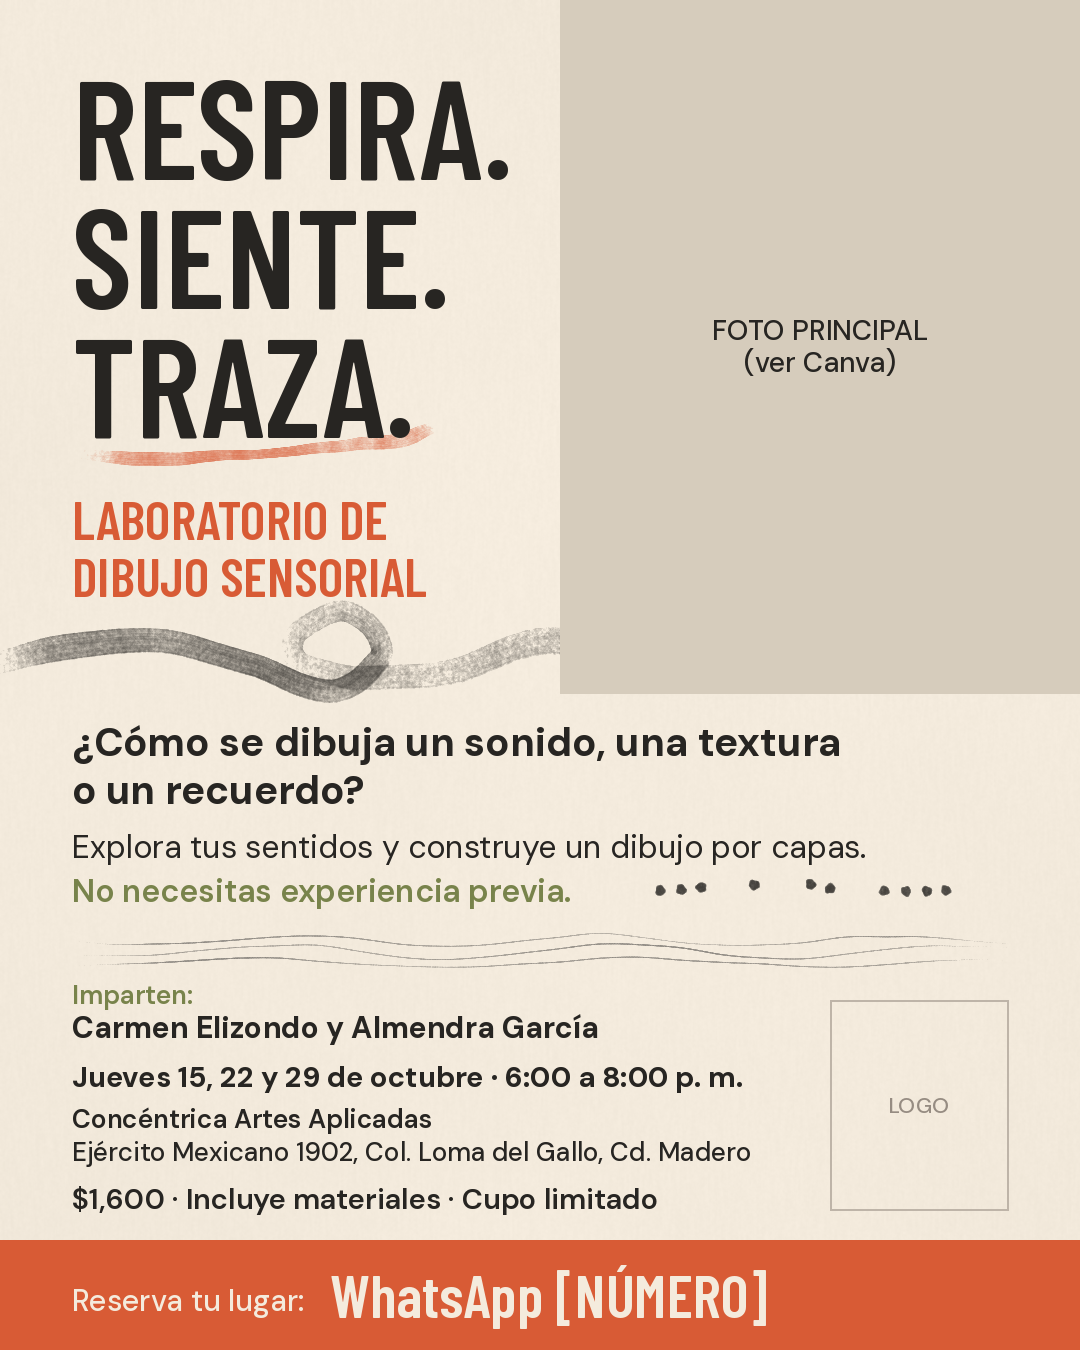
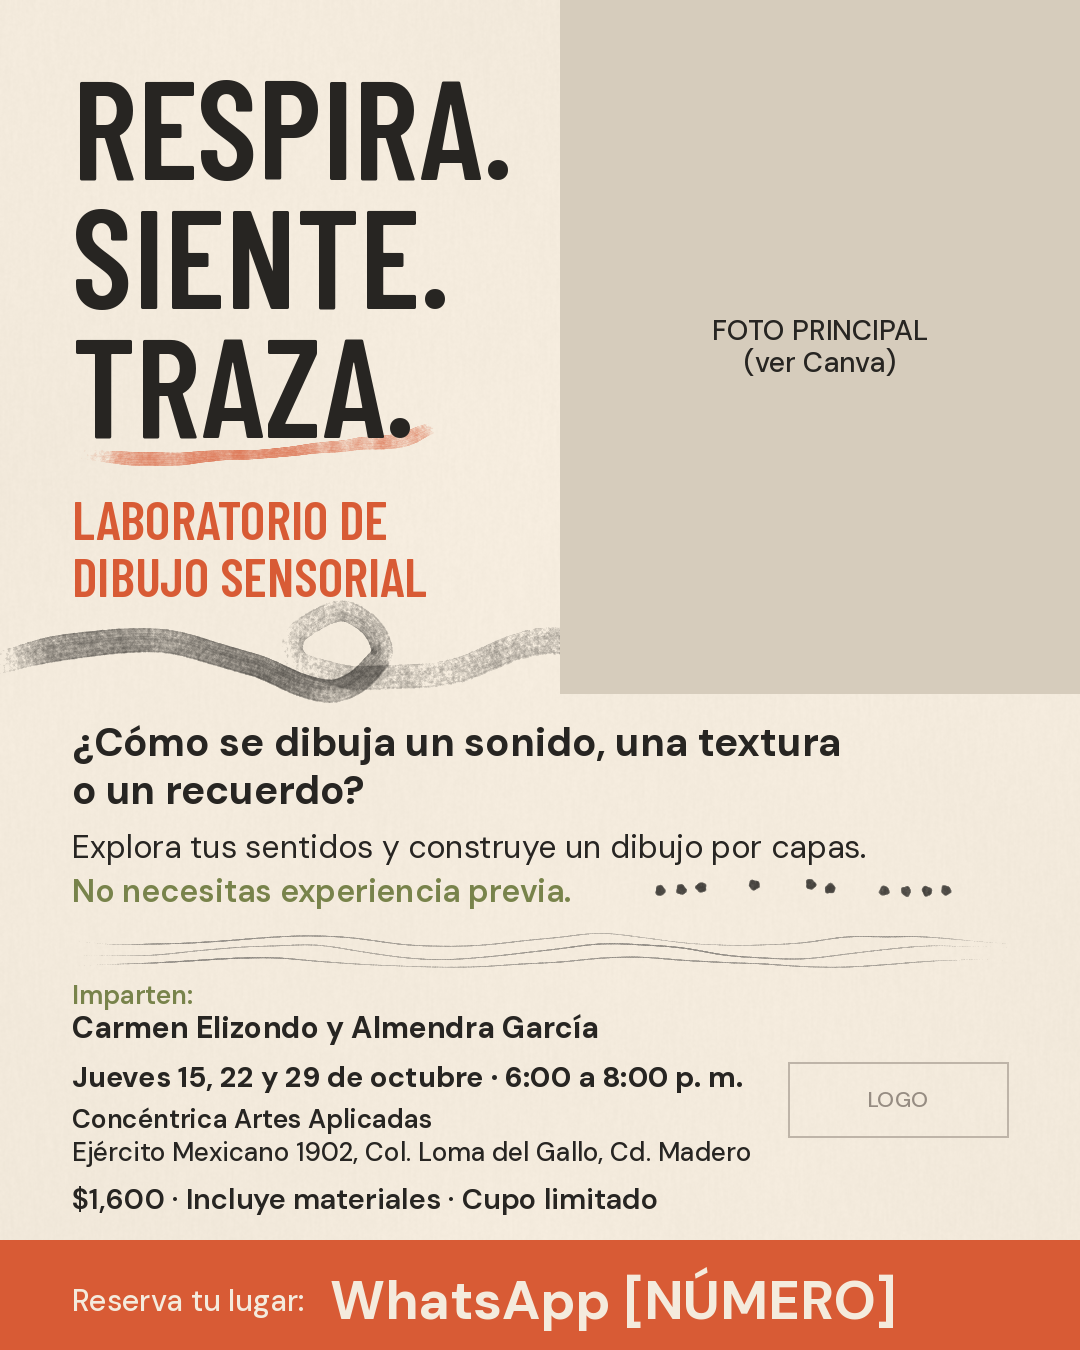
Finish sensory drawing lab flyer: Canva version, README and pending items
The editable flyer lives in Canva (design DAHXYHwz8Oc) with the client's
Concéntrica logo, the paper and stroke layers from this repo and a generated
photo labelled as illustrative. The local mock-up now matches the Canva
layout; the README records data sources and what is still missing
(WhatsApp number, city and price confirmation, real photos).

Claude-Session: https://claude.ai/code/session_01P6pgy4porqwk2h4add5EmF

diff --git a/tools/laboratorio.py b/tools/laboratorio.py
@@ -36,7 +36,7 @@ PROJECT = ROOT / "laboratorio-dibujo-sensorial"
 LAYOUT = {
     "margin": 72,
     "foto": (560, 0, 520, 693),
-    "logo": (830, 1000, 178, 210),
+    "logo": (788, 1062, 220, 75),            # Concéntrica logo, about 2.9 : 1
     "banda": (0, 1240, 1080, 110),
     "frase": (72, 40, 140, 129),            # x, y, size, line step
     "nombre": (72, 486, 54, 57),
@@ -49,7 +49,7 @@ LAYOUT = {
     "sede": (72, 1102, 26, 33),
     "costo": (72, 1180, 29),
     "reserva": (72, 1281, 30),
-    "whatsapp": (330, 1258, 60),
+    "whatsapp": (330, 1265, 54),
 }
 
 
@@ -178,7 +178,7 @@ def render_flyer(cfg, out):
     x, y, s = L["reserva"]
     text_block(d, (x, y), fl["reserva"], font(T["cuerpo_medio"], s), pal["crema"])
     x, y, s = L["whatsapp"]
-    text_block(d, (x, y), "WhatsApp " + dat["whatsapp"], font(T["titulos"], s), pal["crema"])
+    text_block(d, (x, y), "WhatsApp " + dat["whatsapp"], font(T["cuerpo_negrita"], s), pal["crema"])
     if photo.exists() and fl.get("foto_ilustrativa"):
         tag = Image.open(canva / "nota_imagen_ilustrativa.png")
         im.paste(tag, (fx + fw - tag.width - 16, fy + fh - tag.height - 16), tag)

diff --git a/tools/trazos.py b/tools/trazos.py
@@ -18,7 +18,7 @@ Tools
 import math
 
 import numpy as np
-from PIL import Image, ImageFilter
+from PIL import Image
 
 # Campaign palette (see laboratorio-dibujo-sensorial/project/datos.json).
 CREMA = (0xF4, 0xEB, 0xDD)
@@ -360,9 +360,6 @@ class Canvas:
         D = self.dep.get(ink)
         if D is None:
             return None
-        small = Image.fromarray(D, "F").resize((max(1, self.w // 4), max(1, self.h // 4)), Image.BILINEAR)
-        dust = np.asarray(small.filter(ImageFilter.BoxBlur(2)).resize((self.w, self.h), Image.BILINEAR),
-                          np.float32) if False else None
         thresh = grain * 0.55 * (1 - self.tooth)
         eff = np.maximum(0.0, D * (1 - 0.35 * grain + 0.35 * grain * self.tooth) - thresh * 0.35)
         return maxa * (1 - np.exp(-3.2 * eff))

diff --git a/laboratorio-dibujo-sensorial/README.md b/laboratorio-dibujo-sensorial/README.md
@@ -1,0 +1,85 @@
+# Laboratorio de dibujo sensorial: campaña (flyer, reel y carrusel)
+
+Taller de dibujo, meditación y exploración del trazo personal. Imparten Carmen Elizondo y Almendra García en Concéntrica Artes Aplicadas.
+
+El flyer define la identidad visual de la campaña. El reel y el carrusel se harán con esta misma identidad.
+
+## Estado
+
+| Pieza | Estado |
+|---|---|
+| **Flyer 1080 × 1350** | **Listo en Canva y editable.** Falta el número de WhatsApp |
+| Flyer para estados e historias (1080 × 1920) | Pendiente: se adapta del flyer cuando esté aprobado |
+| Carrusel | Pendiente |
+| Reel | Pendiente |
+
+**Flyer en Canva:** diseño *“Flyer taller de dibujo sensorial”* (ID `DAHXYHwz8Oc`) → <https://www.canva.com/d/RT7uJwrJYnRplNE>
+
+Para descargarlo: *Compartir → Descargar → PNG*, tamaño 1080 × 1350.
+
+## Archivos
+
+| Archivo | Qué es |
+|---|---|
+| `exports/flyer/flyer_canva_vista_previa.png` | Vista previa reducida del flyer guardado en Canva (400 × 500) |
+| `exports/flyer/flyer_maqueta.png` | Maqueta local con las tipografías exactas. Muestra dónde van la foto y el logo; la versión final es la de Canva |
+| `exports/flyer/canva/papel_1080x1350.png` | Fondo de papel artístico #F4EBDD con textura muy sutil (es el fondo del flyer en Canva) |
+| `exports/flyer/canva/trazos_1080x1350.png` | Trazos de carbón sobre transparencia, colocados solo donde no hay texto |
+| `exports/flyer/canva/nota_imagen_ilustrativa.png` | Etiqueta “Imagen ilustrativa” para la foto generada |
+| `datos.json` | Datos del taller, paleta, tipografías y textos de la campaña |
+
+## Cómo está construido el flyer
+
+**Jerarquía:** 1. *RESPIRA. SIENTE. TRAZA.* · 2. *LABORATORIO DE DIBUJO SENSORIAL* · 3. Foto · 4. Pregunta e invitación · 5. Datos agrupados con el logo · 6. Banda terracota con la reserva por WhatsApp.
+
+**Identidad:** crema #F4EBDD, carbón #272522, terracota #D85B35 y olivo #78834B (en *No necesitas experiencia previa* e *Imparten:*). Títulos en Barlow Condensed SemiBold y cuerpo en DM Sans. Los textos tienen 26 px como mínimo.
+
+**Trazos de carbón** (`tools/trazos.py`):
+- un gesto que pasa bajo el nombre del taller y se esconde detrás de la foto;
+- un subrayado terracota bajo *TRAZA.*;
+- tres ondas de grafito que separan los datos, como una respiración;
+- puntos en grupos rítmicos, como un sonido escuchado.
+
+Ninguno pasa por debajo del texto.
+
+**Foto:** la clienta no ha enviado fotos reales del taller, así que la imagen se generó en Canva como **ilustración conceptual** y lleva la etiqueta *Imagen ilustrativa*. No se presenta como registro de una edición anterior. El papel es un pliego vertical grande sujeto a un tablero, como en la foto de la página 4 de la presentación de la clienta.
+
+Cuando haya fotos reales: en Canva, selecciona la foto → *Reemplazar*, y borra la etiqueta *Imagen ilustrativa*.
+
+**Logo:** es el de Concéntrica que viene en la presentación de la clienta, con sus proporciones originales.
+
+## Datos usados y de dónde salen
+
+Vienen de la presentación de Canva de la clienta (*Copia de DIBUJO EN ORIGAMI*, páginas 1 y 4):
+
+- Jueves 15, 22 y 29 de octubre · 6:00 a 8:00 p. m.
+- Concéntrica Artes Aplicadas, Ejército Mexicano 1902, Col. Loma del Gallo, Cd. Madero
+- $1,600 · Incluye materiales · Cupo limitado
+
+En las páginas 4 y 5 de esa presentación quedan textos ocultos de una edición anterior (*Marzo 24, 25 y 26*). No se usaron.
+
+## Pendientes
+
+1. **Número de WhatsApp.** En Canva dice `WhatsApp [NÚMERO]`. Es texto editable: basta con escribir el número.
+2. **Confirmar la ciudad.** *Cd. Madero* se dedujo del C. P. 89460 de la presentación.
+3. **Confirmar el costo.** ¿Los $1,600 cubren las tres sesiones? ¿Se puede pagar por sesión?
+4. **Confirmar el formato del papel:** pliego vertical sobre tablero o pared, como en la foto.
+5. **Fotos o videos reales** del taller o de Carmen y Almendra dibujando. Sustituyen a la ilustración en el flyer, el carrusel y el reel.
+6. **Tipografías en Canva.** El conector de Canva no muestra los nombres de las fuentes. Al seleccionar un título debería decir *Barlow Condensed*, y en el cuerpo *DM Sans*. Si no, cámbialas con el menú de fuente.
+7. En tu Canva quedó también el borrador previo *Flyer taller de dibujo sensorial* de 1080 × 1440 (ID `DAHXYChIPF0`). Ya no se usa y puedes borrarlo.
+
+## Cómo regenerar los gráficos y la maqueta
+
+Requisitos: Python 3.9+, Pillow y numpy.
+
+```bash
+python3 tools/laboratorio.py flyer
+```
+
+Si cambias un dato en `datos.json`, cambia el mismo texto en Canva. Si quieres verlo en la maqueta, pon la foto en `media/fotos/principal.jpg` y el logo en `media/logo/concentrica.png`.
+
+Los trazos se generan con una semilla fija: siempre salen iguales. Si cambias los trazos, sube el PNG nuevo y reemplázalo en Canva.
+
+## Tipografías
+
+*Barlow Condensed* y *DM Sans*, ambas con licencia SIL Open Font License (ver `assets/fonts/`).

diff --git a/README.md b/README.md
@@ -1,5 +1,7 @@
 # Condo Lua: reel de invierno 2027 (Facebook / Instagram)
 
+> Este repositorio también contiene la campaña del **[Laboratorio de dibujo sensorial](laboratorio-dibujo-sensorial/)** (flyer, reel y carrusel).
+
 Anuncio vertical de 35 s (1080 × 1920) para atraer a residentes de Canadá y Estados Unidos que buscan una estancia de invierno de 3 a 4 meses en Bucerías, Nayarit (enero–abril de 2027).
 
 ## Entregables
